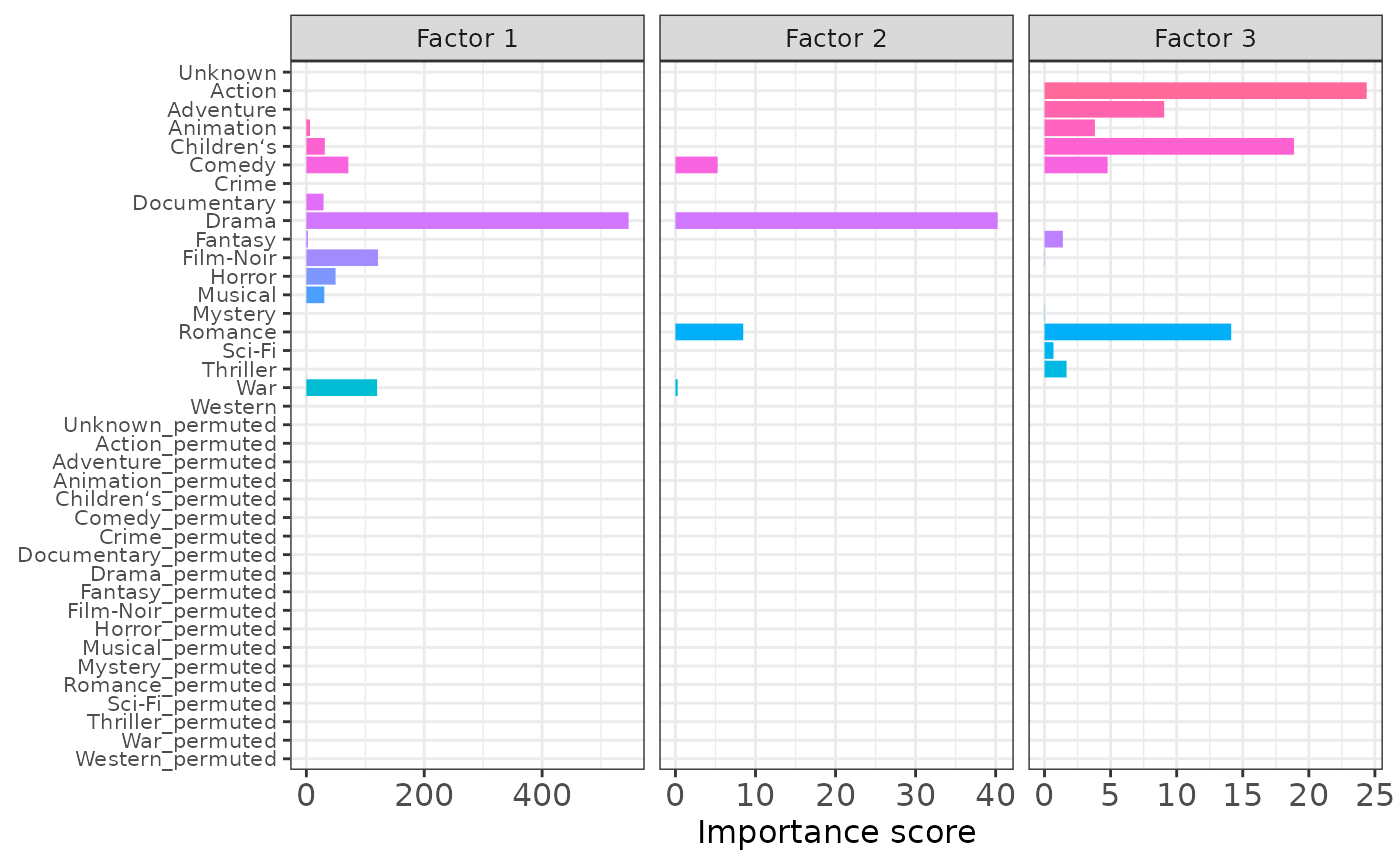
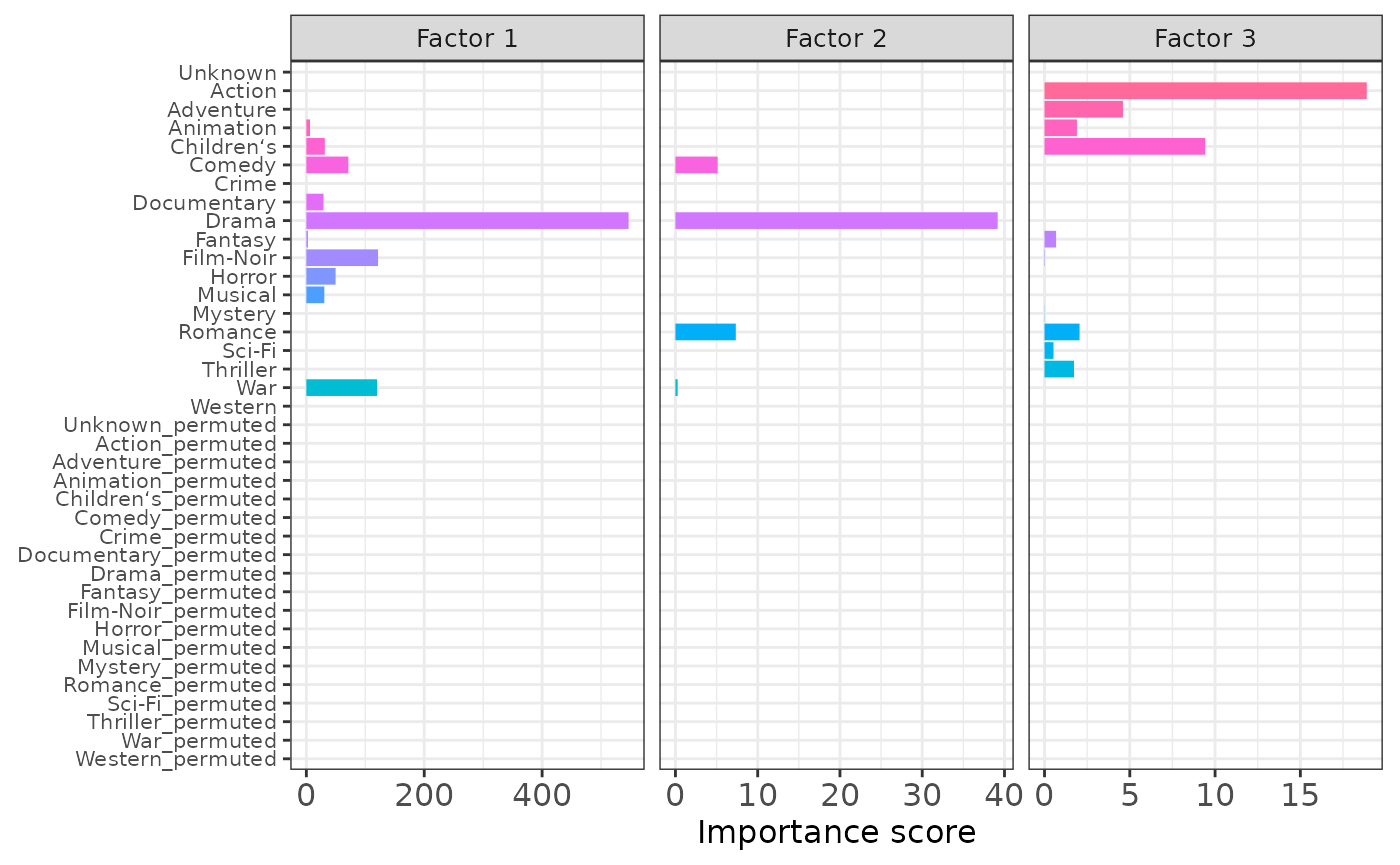
Deploying to gh-pages from @ YangLabHKUST/mfair@2b4506f5eeb83f2b30af7533c47aa050777d9f62 🚀

diff --git a/reference/softImputeCrossValSparse.html b/reference/softImputeCrossValSparse.html
@@ -1,5 +1,5 @@
 <!DOCTYPE html>
-<!-- Generated by pkgdown: do not edit by hand --><html lang="en"><head><meta http-equiv="Content-Type" content="text/html; charset=UTF-8"><meta charset="utf-8"><meta http-equiv="X-UA-Compatible" content="IE=edge"><meta name="viewport" content="width=device-width, initial-scale=1, shrink-to-fit=no"><meta name="description" content="Sparse version of cross-validation for softImpute"><title>Sparse version of cross-validation for softImpute — softImputeCrossValSparse • mfair</title><script src="../deps/jquery-3.6.0/jquery-3.6.0.min.js"></script><meta name="viewport" content="width=device-width, initial-scale=1, shrink-to-fit=no"><link href="../deps/bootstrap-5.2.2/bootstrap.min.css" rel="stylesheet"><script src="../deps/bootstrap-5.2.2/bootstrap.bundle.min.js"></script><!-- Font Awesome icons --><link rel="stylesheet" href="https://cdnjs.cloudflare.com/ajax/libs/font-awesome/5.12.1/css/all.min.css" integrity="sha256-mmgLkCYLUQbXn0B1SRqzHar6dCnv9oZFPEC1g1cwlkk=" crossorigin="anonymous"><link rel="stylesheet" href="https://cdnjs.cloudflare.com/ajax/libs/font-awesome/5.12.1/css/v4-shims.min.css" integrity="sha256-wZjR52fzng1pJHwx4aV2AO3yyTOXrcDW7jBpJtTwVxw=" crossorigin="anonymous"><!-- bootstrap-toc --><script src="https://cdn.jsdelivr.net/gh/afeld/bootstrap-toc@v1.0.1/dist/bootstrap-toc.min.js" integrity="sha256-4veVQbu7//Lk5TSmc7YV48MxtMy98e26cf5MrgZYnwo=" crossorigin="anonymous"></script><!-- headroom.js --><script src="https://cdnjs.cloudflare.com/ajax/libs/headroom/0.11.0/headroom.min.js" integrity="sha256-AsUX4SJE1+yuDu5+mAVzJbuYNPHj/WroHuZ8Ir/CkE0=" crossorigin="anonymous"></script><script src="https://cdnjs.cloudflare.com/ajax/libs/headroom/0.11.0/jQuery.headroom.min.js" integrity="sha256-ZX/yNShbjqsohH1k95liqY9Gd8uOiE1S4vZc+9KQ1K4=" crossorigin="anonymous"></script><!-- clipboard.js --><script src="https://cdnjs.cloudflare.com/ajax/libs/clipboard.js/2.0.6/clipboard.min.js" integrity="sha256-inc5kl9MA1hkeYUt+EC3BhlIgyp/2jDIyBLS6k3UxPI=" crossorigin="anonymous"></script><!-- search --><script src="https://cdnjs.cloudflare.com/ajax/libs/fuse.js/6.4.6/fuse.js" integrity="sha512-zv6Ywkjyktsohkbp9bb45V6tEMoWhzFzXis+LrMehmJZZSys19Yxf1dopHx7WzIKxr5tK2dVcYmaCk2uqdjF4A==" crossorigin="anonymous"></script><script src="https://cdnjs.cloudflare.com/ajax/libs/autocomplete.js/0.38.0/autocomplete.jquery.min.js" integrity="sha512-GU9ayf+66Xx2TmpxqJpliWbT5PiGYxpaG8rfnBEk1LL8l1KGkRShhngwdXK1UgqhAzWpZHSiYPc09/NwDQIGyg==" crossorigin="anonymous"></script><script src="https://cdnjs.cloudflare.com/ajax/libs/mark.js/8.11.1/mark.min.js" integrity="sha512-5CYOlHXGh6QpOFA/TeTylKLWfB3ftPsde7AnmhuitiTX4K5SqCLBeKro6sPS8ilsz1Q4NRx3v8Ko2IBiszzdww==" crossorigin="anonymous"></script><!-- pkgdown --><script src="../pkgdown.js"></script><meta property="og:title" content="Sparse version of cross-validation for softImpute — softImputeCrossValSparse"><meta property="og:description" content="Sparse version of cross-validation for softImpute"><!-- mathjax --><script src="https://cdnjs.cloudflare.com/ajax/libs/mathjax/2.7.5/MathJax.js" integrity="sha256-nvJJv9wWKEm88qvoQl9ekL2J+k/RWIsaSScxxlsrv8k=" crossorigin="anonymous"></script><script src="https://cdnjs.cloudflare.com/ajax/libs/mathjax/2.7.5/config/TeX-AMS-MML_HTMLorMML.js" integrity="sha256-84DKXVJXs0/F8OTMzX4UR909+jtl4G7SPypPavF+GfA=" crossorigin="anonymous"></script><!--[if lt IE 9]>
+<!-- Generated by pkgdown: do not edit by hand --><html lang="en"><head><meta http-equiv="Content-Type" content="text/html; charset=UTF-8"><meta charset="utf-8"><meta http-equiv="X-UA-Compatible" content="IE=edge"><meta name="viewport" content="width=device-width, initial-scale=1, shrink-to-fit=no"><meta name="description" content="Sparse version of cross-validation for softImpute."><title>Sparse version of cross-validation for softImpute. — softImputeCrossValSparse • mfair</title><script src="../deps/jquery-3.6.0/jquery-3.6.0.min.js"></script><meta name="viewport" content="width=device-width, initial-scale=1, shrink-to-fit=no"><link href="../deps/bootstrap-5.2.2/bootstrap.min.css" rel="stylesheet"><script src="../deps/bootstrap-5.2.2/bootstrap.bundle.min.js"></script><!-- Font Awesome icons --><link rel="stylesheet" href="https://cdnjs.cloudflare.com/ajax/libs/font-awesome/5.12.1/css/all.min.css" integrity="sha256-mmgLkCYLUQbXn0B1SRqzHar6dCnv9oZFPEC1g1cwlkk=" crossorigin="anonymous"><link rel="stylesheet" href="https://cdnjs.cloudflare.com/ajax/libs/font-awesome/5.12.1/css/v4-shims.min.css" integrity="sha256-wZjR52fzng1pJHwx4aV2AO3yyTOXrcDW7jBpJtTwVxw=" crossorigin="anonymous"><!-- bootstrap-toc --><script src="https://cdn.jsdelivr.net/gh/afeld/bootstrap-toc@v1.0.1/dist/bootstrap-toc.min.js" integrity="sha256-4veVQbu7//Lk5TSmc7YV48MxtMy98e26cf5MrgZYnwo=" crossorigin="anonymous"></script><!-- headroom.js --><script src="https://cdnjs.cloudflare.com/ajax/libs/headroom/0.11.0/headroom.min.js" integrity="sha256-AsUX4SJE1+yuDu5+mAVzJbuYNPHj/WroHuZ8Ir/CkE0=" crossorigin="anonymous"></script><script src="https://cdnjs.cloudflare.com/ajax/libs/headroom/0.11.0/jQuery.headroom.min.js" integrity="sha256-ZX/yNShbjqsohH1k95liqY9Gd8uOiE1S4vZc+9KQ1K4=" crossorigin="anonymous"></script><!-- clipboard.js --><script src="https://cdnjs.cloudflare.com/ajax/libs/clipboard.js/2.0.6/clipboard.min.js" integrity="sha256-inc5kl9MA1hkeYUt+EC3BhlIgyp/2jDIyBLS6k3UxPI=" crossorigin="anonymous"></script><!-- search --><script src="https://cdnjs.cloudflare.com/ajax/libs/fuse.js/6.4.6/fuse.js" integrity="sha512-zv6Ywkjyktsohkbp9bb45V6tEMoWhzFzXis+LrMehmJZZSys19Yxf1dopHx7WzIKxr5tK2dVcYmaCk2uqdjF4A==" crossorigin="anonymous"></script><script src="https://cdnjs.cloudflare.com/ajax/libs/autocomplete.js/0.38.0/autocomplete.jquery.min.js" integrity="sha512-GU9ayf+66Xx2TmpxqJpliWbT5PiGYxpaG8rfnBEk1LL8l1KGkRShhngwdXK1UgqhAzWpZHSiYPc09/NwDQIGyg==" crossorigin="anonymous"></script><script src="https://cdnjs.cloudflare.com/ajax/libs/mark.js/8.11.1/mark.min.js" integrity="sha512-5CYOlHXGh6QpOFA/TeTylKLWfB3ftPsde7AnmhuitiTX4K5SqCLBeKro6sPS8ilsz1Q4NRx3v8Ko2IBiszzdww==" crossorigin="anonymous"></script><!-- pkgdown --><script src="../pkgdown.js"></script><meta property="og:title" content="Sparse version of cross-validation for softImpute. — softImputeCrossValSparse"><meta property="og:description" content="Sparse version of cross-validation for softImpute."><!-- mathjax --><script src="https://cdnjs.cloudflare.com/ajax/libs/mathjax/2.7.5/MathJax.js" integrity="sha256-nvJJv9wWKEm88qvoQl9ekL2J+k/RWIsaSScxxlsrv8k=" crossorigin="anonymous"></script><script src="https://cdnjs.cloudflare.com/ajax/libs/mathjax/2.7.5/config/TeX-AMS-MML_HTMLorMML.js" integrity="sha256-84DKXVJXs0/F8OTMzX4UR909+jtl4G7SPypPavF+GfA=" crossorigin="anonymous"></script><!--[if lt IE 9]>
 <script src="https://oss.maxcdn.com/html5shiv/3.7.3/html5shiv.min.js"></script>
 <script src="https://oss.maxcdn.com/respond/1.4.2/respond.min.js"></script>
 <![endif]--></head><body>
@@ -44,13 +44,13 @@
 </nav><div class="container template-reference-topic">
 <div class="row">
   <main id="main" class="col-md-9"><div class="page-header">
-      <img src="" class="logo" alt=""><h1>Sparse version of cross-validation for softImpute</h1>
+      <img src="" class="logo" alt=""><h1>Sparse version of cross-validation for softImpute.</h1>
       <small class="dont-index">Source: <a href="https://github.com/YangLabHKUST/mfair/blob/HEAD/R/softImputeCV.R" class="external-link"><code>R/softImputeCV.R</code></a></small>
       <div class="d-none name"><code>softImputeCrossValSparse.Rd</code></div>
     </div>
 
     <div class="ref-description section level2">
-    <p>Sparse version of cross-validation for softImpute</p>
+    <p>Sparse version of cross-validation for softImpute.</p>
     </div>
 
     <div class="section level2">

diff --git a/reference/softImputeCrossVal.html b/reference/softImputeCrossVal.html
@@ -1,5 +1,5 @@
 <!DOCTYPE html>
-<!-- Generated by pkgdown: do not edit by hand --><html lang="en"><head><meta http-equiv="Content-Type" content="text/html; charset=UTF-8"><meta charset="utf-8"><meta http-equiv="X-UA-Compatible" content="IE=edge"><meta name="viewport" content="width=device-width, initial-scale=1, shrink-to-fit=no"><meta name="description" content="Cross-validation for softImpute"><title>Cross-validation for softImpute — softImputeCrossVal • mfair</title><script src="../deps/jquery-3.6.0/jquery-3.6.0.min.js"></script><meta name="viewport" content="width=device-width, initial-scale=1, shrink-to-fit=no"><link href="../deps/bootstrap-5.2.2/bootstrap.min.css" rel="stylesheet"><script src="../deps/bootstrap-5.2.2/bootstrap.bundle.min.js"></script><!-- Font Awesome icons --><link rel="stylesheet" href="https://cdnjs.cloudflare.com/ajax/libs/font-awesome/5.12.1/css/all.min.css" integrity="sha256-mmgLkCYLUQbXn0B1SRqzHar6dCnv9oZFPEC1g1cwlkk=" crossorigin="anonymous"><link rel="stylesheet" href="https://cdnjs.cloudflare.com/ajax/libs/font-awesome/5.12.1/css/v4-shims.min.css" integrity="sha256-wZjR52fzng1pJHwx4aV2AO3yyTOXrcDW7jBpJtTwVxw=" crossorigin="anonymous"><!-- bootstrap-toc --><script src="https://cdn.jsdelivr.net/gh/afeld/bootstrap-toc@v1.0.1/dist/bootstrap-toc.min.js" integrity="sha256-4veVQbu7//Lk5TSmc7YV48MxtMy98e26cf5MrgZYnwo=" crossorigin="anonymous"></script><!-- headroom.js --><script src="https://cdnjs.cloudflare.com/ajax/libs/headroom/0.11.0/headroom.min.js" integrity="sha256-AsUX4SJE1+yuDu5+mAVzJbuYNPHj/WroHuZ8Ir/CkE0=" crossorigin="anonymous"></script><script src="https://cdnjs.cloudflare.com/ajax/libs/headroom/0.11.0/jQuery.headroom.min.js" integrity="sha256-ZX/yNShbjqsohH1k95liqY9Gd8uOiE1S4vZc+9KQ1K4=" crossorigin="anonymous"></script><!-- clipboard.js --><script src="https://cdnjs.cloudflare.com/ajax/libs/clipboard.js/2.0.6/clipboard.min.js" integrity="sha256-inc5kl9MA1hkeYUt+EC3BhlIgyp/2jDIyBLS6k3UxPI=" crossorigin="anonymous"></script><!-- search --><script src="https://cdnjs.cloudflare.com/ajax/libs/fuse.js/6.4.6/fuse.js" integrity="sha512-zv6Ywkjyktsohkbp9bb45V6tEMoWhzFzXis+LrMehmJZZSys19Yxf1dopHx7WzIKxr5tK2dVcYmaCk2uqdjF4A==" crossorigin="anonymous"></script><script src="https://cdnjs.cloudflare.com/ajax/libs/autocomplete.js/0.38.0/autocomplete.jquery.min.js" integrity="sha512-GU9ayf+66Xx2TmpxqJpliWbT5PiGYxpaG8rfnBEk1LL8l1KGkRShhngwdXK1UgqhAzWpZHSiYPc09/NwDQIGyg==" crossorigin="anonymous"></script><script src="https://cdnjs.cloudflare.com/ajax/libs/mark.js/8.11.1/mark.min.js" integrity="sha512-5CYOlHXGh6QpOFA/TeTylKLWfB3ftPsde7AnmhuitiTX4K5SqCLBeKro6sPS8ilsz1Q4NRx3v8Ko2IBiszzdww==" crossorigin="anonymous"></script><!-- pkgdown --><script src="../pkgdown.js"></script><meta property="og:title" content="Cross-validation for softImpute — softImputeCrossVal"><meta property="og:description" content="Cross-validation for softImpute"><!-- mathjax --><script src="https://cdnjs.cloudflare.com/ajax/libs/mathjax/2.7.5/MathJax.js" integrity="sha256-nvJJv9wWKEm88qvoQl9ekL2J+k/RWIsaSScxxlsrv8k=" crossorigin="anonymous"></script><script src="https://cdnjs.cloudflare.com/ajax/libs/mathjax/2.7.5/config/TeX-AMS-MML_HTMLorMML.js" integrity="sha256-84DKXVJXs0/F8OTMzX4UR909+jtl4G7SPypPavF+GfA=" crossorigin="anonymous"></script><!--[if lt IE 9]>
+<!-- Generated by pkgdown: do not edit by hand --><html lang="en"><head><meta http-equiv="Content-Type" content="text/html; charset=UTF-8"><meta charset="utf-8"><meta http-equiv="X-UA-Compatible" content="IE=edge"><meta name="viewport" content="width=device-width, initial-scale=1, shrink-to-fit=no"><meta name="description" content="Cross-validation for softImpute."><title>Cross-validation for softImpute. — softImputeCrossVal • mfair</title><script src="../deps/jquery-3.6.0/jquery-3.6.0.min.js"></script><meta name="viewport" content="width=device-width, initial-scale=1, shrink-to-fit=no"><link href="../deps/bootstrap-5.2.2/bootstrap.min.css" rel="stylesheet"><script src="../deps/bootstrap-5.2.2/bootstrap.bundle.min.js"></script><!-- Font Awesome icons --><link rel="stylesheet" href="https://cdnjs.cloudflare.com/ajax/libs/font-awesome/5.12.1/css/all.min.css" integrity="sha256-mmgLkCYLUQbXn0B1SRqzHar6dCnv9oZFPEC1g1cwlkk=" crossorigin="anonymous"><link rel="stylesheet" href="https://cdnjs.cloudflare.com/ajax/libs/font-awesome/5.12.1/css/v4-shims.min.css" integrity="sha256-wZjR52fzng1pJHwx4aV2AO3yyTOXrcDW7jBpJtTwVxw=" crossorigin="anonymous"><!-- bootstrap-toc --><script src="https://cdn.jsdelivr.net/gh/afeld/bootstrap-toc@v1.0.1/dist/bootstrap-toc.min.js" integrity="sha256-4veVQbu7//Lk5TSmc7YV48MxtMy98e26cf5MrgZYnwo=" crossorigin="anonymous"></script><!-- headroom.js --><script src="https://cdnjs.cloudflare.com/ajax/libs/headroom/0.11.0/headroom.min.js" integrity="sha256-AsUX4SJE1+yuDu5+mAVzJbuYNPHj/WroHuZ8Ir/CkE0=" crossorigin="anonymous"></script><script src="https://cdnjs.cloudflare.com/ajax/libs/headroom/0.11.0/jQuery.headroom.min.js" integrity="sha256-ZX/yNShbjqsohH1k95liqY9Gd8uOiE1S4vZc+9KQ1K4=" crossorigin="anonymous"></script><!-- clipboard.js --><script src="https://cdnjs.cloudflare.com/ajax/libs/clipboard.js/2.0.6/clipboard.min.js" integrity="sha256-inc5kl9MA1hkeYUt+EC3BhlIgyp/2jDIyBLS6k3UxPI=" crossorigin="anonymous"></script><!-- search --><script src="https://cdnjs.cloudflare.com/ajax/libs/fuse.js/6.4.6/fuse.js" integrity="sha512-zv6Ywkjyktsohkbp9bb45V6tEMoWhzFzXis+LrMehmJZZSys19Yxf1dopHx7WzIKxr5tK2dVcYmaCk2uqdjF4A==" crossorigin="anonymous"></script><script src="https://cdnjs.cloudflare.com/ajax/libs/autocomplete.js/0.38.0/autocomplete.jquery.min.js" integrity="sha512-GU9ayf+66Xx2TmpxqJpliWbT5PiGYxpaG8rfnBEk1LL8l1KGkRShhngwdXK1UgqhAzWpZHSiYPc09/NwDQIGyg==" crossorigin="anonymous"></script><script src="https://cdnjs.cloudflare.com/ajax/libs/mark.js/8.11.1/mark.min.js" integrity="sha512-5CYOlHXGh6QpOFA/TeTylKLWfB3ftPsde7AnmhuitiTX4K5SqCLBeKro6sPS8ilsz1Q4NRx3v8Ko2IBiszzdww==" crossorigin="anonymous"></script><!-- pkgdown --><script src="../pkgdown.js"></script><meta property="og:title" content="Cross-validation for softImpute. — softImputeCrossVal"><meta property="og:description" content="Cross-validation for softImpute."><!-- mathjax --><script src="https://cdnjs.cloudflare.com/ajax/libs/mathjax/2.7.5/MathJax.js" integrity="sha256-nvJJv9wWKEm88qvoQl9ekL2J+k/RWIsaSScxxlsrv8k=" crossorigin="anonymous"></script><script src="https://cdnjs.cloudflare.com/ajax/libs/mathjax/2.7.5/config/TeX-AMS-MML_HTMLorMML.js" integrity="sha256-84DKXVJXs0/F8OTMzX4UR909+jtl4G7SPypPavF+GfA=" crossorigin="anonymous"></script><!--[if lt IE 9]>
 <script src="https://oss.maxcdn.com/html5shiv/3.7.3/html5shiv.min.js"></script>
 <script src="https://oss.maxcdn.com/respond/1.4.2/respond.min.js"></script>
 <![endif]--></head><body>
@@ -44,13 +44,13 @@
 </nav><div class="container template-reference-topic">
 <div class="row">
   <main id="main" class="col-md-9"><div class="page-header">
-      <img src="" class="logo" alt=""><h1>Cross-validation for softImpute</h1>
+      <img src="" class="logo" alt=""><h1>Cross-validation for softImpute.</h1>
       <small class="dont-index">Source: <a href="https://github.com/YangLabHKUST/mfair/blob/HEAD/R/softImputeCV.R" class="external-link"><code>R/softImputeCV.R</code></a></small>
       <div class="d-none name"><code>softImputeCrossVal.Rd</code></div>
     </div>
 
     <div class="ref-description section level2">
-    <p>Cross-validation for softImpute</p>
+    <p>Cross-validation for softImpute.</p>
     </div>
 
     <div class="section level2">

diff --git a/articles/ml100k.html b/articles/ml100k.html
@@ -124,17 +124,17 @@ proceed to fit the MFAI model with top three factors.</p>
 <span><span class="co">#&gt; Set K_max = 3!</span></span>
 <span><span class="co">#&gt; Initialize the parameters of factor 1......</span></span>
 <span><span class="co">#&gt; After 2 iterations Stage 1 ends!</span></span>
-<span><span class="co">#&gt; After 53 iterations Stage 2 ends!</span></span>
+<span><span class="co">#&gt; After 95 iterations Stage 2 ends!</span></span>
 <span><span class="co">#&gt; Factor 1 retained!</span></span>
 <span><span class="co">#&gt; Save the initializaiton information......</span></span>
 <span><span class="co">#&gt; Initialize the parameters of factor 2......</span></span>
 <span><span class="co">#&gt; After 2 iterations Stage 1 ends!</span></span>
-<span><span class="co">#&gt; After 54 iterations Stage 2 ends!</span></span>
+<span><span class="co">#&gt; After 181 iterations Stage 2 ends!</span></span>
 <span><span class="co">#&gt; Factor 2 retained!</span></span>
 <span><span class="co">#&gt; Save the initializaiton information......</span></span>
 <span><span class="co">#&gt; Initialize the parameters of factor 3......</span></span>
 <span><span class="co">#&gt; After 2 iterations Stage 1 ends!</span></span>
-<span><span class="co">#&gt; After 28 iterations Stage 2 ends!</span></span>
+<span><span class="co">#&gt; After 35 iterations Stage 2 ends!</span></span>
 <span><span class="co">#&gt; Factor 3 retained!</span></span>
 <span><span class="co">#&gt; Save the initializaiton information......</span></span></code></pre></div>
 </div>
@@ -217,15 +217,15 @@ permuting the entries of the corresponding column in the real genre data
 <span><span class="co">#&gt; Set K_max = 3!</span></span>
 <span><span class="co">#&gt; Use the user-specific initialization for factor 1......</span></span>
 <span><span class="co">#&gt; After 2 iterations Stage 1 ends!</span></span>
-<span><span class="co">#&gt; After 52 iterations Stage 2 ends!</span></span>
+<span><span class="co">#&gt; After 96 iterations Stage 2 ends!</span></span>
 <span><span class="co">#&gt; Factor 1 retained!</span></span>
 <span><span class="co">#&gt; Use the user-specific initialization for factor 2......</span></span>
 <span><span class="co">#&gt; After 2 iterations Stage 1 ends!</span></span>
-<span><span class="co">#&gt; After 55 iterations Stage 2 ends!</span></span>
+<span><span class="co">#&gt; After 176 iterations Stage 2 ends!</span></span>
 <span><span class="co">#&gt; Factor 2 retained!</span></span>
 <span><span class="co">#&gt; Use the user-specific initialization for factor 3......</span></span>
 <span><span class="co">#&gt; After 2 iterations Stage 1 ends!</span></span>
-<span><span class="co">#&gt; After 27 iterations Stage 2 ends!</span></span>
+<span><span class="co">#&gt; After 34 iterations Stage 2 ends!</span></span>
 <span><span class="co">#&gt; Factor 3 retained!</span></span></code></pre></div>
 <div class="sourceCode" id="cb7"><pre class="downlit sourceCode r">
 <code class="sourceCode R"><span><span class="co"># Get importance score</span></span>
@@ -285,15 +285,15 @@ MFAI model.</p>
 <span><span class="co">#&gt; Set K_max = 3!</span></span>
 <span><span class="co">#&gt; Use the user-specific initialization for factor 1......</span></span>
 <span><span class="co">#&gt; After 2 iterations Stage 1 ends!</span></span>
-<span><span class="co">#&gt; After 53 iterations Stage 2 ends!</span></span>
+<span><span class="co">#&gt; After 95 iterations Stage 2 ends!</span></span>
 <span><span class="co">#&gt; Factor 1 retained!</span></span>
 <span><span class="co">#&gt; Use the user-specific initialization for factor 2......</span></span>
 <span><span class="co">#&gt; After 2 iterations Stage 1 ends!</span></span>
-<span><span class="co">#&gt; After 54 iterations Stage 2 ends!</span></span>
+<span><span class="co">#&gt; After 181 iterations Stage 2 ends!</span></span>
 <span><span class="co">#&gt; Factor 2 retained!</span></span>
 <span><span class="co">#&gt; Use the user-specific initialization for factor 3......</span></span>
 <span><span class="co">#&gt; After 2 iterations Stage 1 ends!</span></span>
-<span><span class="co">#&gt; After 28 iterations Stage 2 ends!</span></span>
+<span><span class="co">#&gt; After 35 iterations Stage 2 ends!</span></span>
 <span><span class="co">#&gt; Factor 3 retained!</span></span></code></pre></div>
 <div class="sourceCode" id="cb9"><pre class="downlit sourceCode r">
 <code class="sourceCode R"><span><span class="co"># Get importance score</span></span>

diff --git a/reference/fitGreedy.html b/reference/fitGreedy.html
@@ -63,6 +63,7 @@
 <span>  minbucket <span class="op">=</span> <span class="fu"><a href="https://rdrr.io/r/base/Round.html" class="external-link">round</a></span><span class="op">(</span><span class="va">minsplit</span><span class="op">/</span><span class="fl">3</span><span class="op">)</span>,</span>
 <span>  maxdepth <span class="op">=</span> <span class="fl">2</span>,</span>
 <span>  other_tree_para <span class="op">=</span> <span class="fu"><a href="https://rdrr.io/r/base/list.html" class="external-link">list</a></span><span class="op">(</span><span class="op">)</span>,</span>
+<span>  null_check <span class="op">=</span> <span class="cn">TRUE</span>,</span>
 <span>  tol_snr <span class="op">=</span> <span class="fl">0.002</span>,</span>
 <span>  verbose_greedy <span class="op">=</span> <span class="cn">TRUE</span>,</span>
 <span>  save_init <span class="op">=</span> <span class="cn">FALSE</span>,</span>
@@ -98,6 +99,10 @@
 
 <dt>other_tree_para</dt>
 <dd><p>A list containing other parameters for the gradient boosting part. See rpart::rpart.control() for details.</p></dd>
+
+
+<dt>null_check</dt>
+<dd><p>Logical. If TRUE, then mfair will check whether the current factor is close to zero. If the check is performed and successful, the factor will be deleted in the returned fit.</p></dd>
 
 
 <dt>tol_snr</dt>

diff --git a/reference/fitSFFully.html b/reference/fitSFFully.html
@@ -64,7 +64,7 @@
 <span>  stage1 <span class="op">=</span> <span class="cn">TRUE</span>,</span>
 <span>  iter_max <span class="op">=</span> <span class="fl">5000</span>,</span>
 <span>  tol_stage1 <span class="op">=</span> <span class="fl">0.1</span>,</span>
-<span>  tol_stage2 <span class="op">=</span> <span class="fl">1e-05</span>,</span>
+<span>  tol_stage2 <span class="op">=</span> <span class="fl">1e-06</span>,</span>
 <span>  verbose_sf <span class="op">=</span> <span class="cn">TRUE</span>,</span>
 <span>  verbose_loop <span class="op">=</span> <span class="cn">TRUE</span>,</span>
 <span>  save_tree_list <span class="op">=</span> <span class="cn">TRUE</span></span>

diff --git a/reference/fitSFMissing.html b/reference/fitSFMissing.html
@@ -65,7 +65,7 @@
 <span>  stage1 <span class="op">=</span> <span class="cn">TRUE</span>,</span>
 <span>  iter_max <span class="op">=</span> <span class="fl">5000</span>,</span>
 <span>  tol_stage1 <span class="op">=</span> <span class="fl">0.1</span>,</span>
-<span>  tol_stage2 <span class="op">=</span> <span class="fl">1e-05</span>,</span>
+<span>  tol_stage2 <span class="op">=</span> <span class="fl">1e-06</span>,</span>
 <span>  verbose_sf <span class="op">=</span> <span class="cn">TRUE</span>,</span>
 <span>  verbose_loop <span class="op">=</span> <span class="cn">TRUE</span>,</span>
 <span>  save_tree_list <span class="op">=</span> <span class="cn">TRUE</span></span>

diff --git a/reference/fitSFSparse.html b/reference/fitSFSparse.html
@@ -65,7 +65,7 @@
 <span>  stage1 <span class="op">=</span> <span class="cn">TRUE</span>,</span>
 <span>  iter_max <span class="op">=</span> <span class="fl">5000</span>,</span>
 <span>  tol_stage1 <span class="op">=</span> <span class="fl">0.1</span>,</span>
-<span>  tol_stage2 <span class="op">=</span> <span class="fl">1e-05</span>,</span>
+<span>  tol_stage2 <span class="op">=</span> <span class="fl">1e-06</span>,</span>
 <span>  verbose_sf <span class="op">=</span> <span class="cn">TRUE</span>,</span>
 <span>  verbose_loop <span class="op">=</span> <span class="cn">TRUE</span>,</span>
 <span>  save_tree_list <span class="op">=</span> <span class="cn">TRUE</span></span>

diff --git a/reference/index.html b/reference/index.html
@@ -167,12 +167,12 @@
           
           <code><a href="softImputeCrossVal.html">softImputeCrossVal()</a></code> 
         </dt>
-        <dd>Cross-validation for softImpute</dd>
+        <dd>Cross-validation for softImpute.</dd>
       </dl><dl><dt>
           
           <code><a href="softImputeCrossValSparse.html">softImputeCrossValSparse()</a></code> 
         </dt>
-        <dd>Sparse version of cross-validation for softImpute</dd>
+        <dd>Sparse version of cross-validation for softImpute.</dd>
       </dl><dl><dt>
           
           <code><a href="updateMFAIR.html">updateMFAIR()</a></code> 
